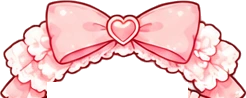
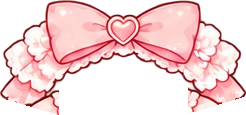
Remove cream flower headband/dress and sky ribbon dress; fix pink heart cuts
Claude-Session: https://claude.ai/code/session_01R3m8MAFkhgnU4D5f6BKp5W

diff --git a/index.html b/index.html
@@ -901,7 +901,7 @@ DISHES.forEach(function(d){ for(var st=1;st<=3;st++){ var x=STAR_X[st];
 var SHOP = [];
 /* 이미지로 만든 아이템: {id,name,slot,tier,cost,file:'assets/items/id.webp',box:[x,y,w,h]} 를 여기에 추가하면
    뽑기·꾸미기·도감에 자동으로 들어가요. box는 캔버스(640x520) 좌표, vb는 box 와 같아요. */
-var IMG_ITEMS = [{"id": "ribbon", "name": "빨간 리본", "slot": "side", "tier": 0, "cost": 8, "file": "assets/items/ribbon.webp", "box": [374.5, 56.1, 125, 71.7]}, {"id": "flower", "name": "꽃 핀", "slot": "side", "tier": 0, "cost": 12, "file": "assets/items/flower.webp", "box": [152.5, 43.1, 105, 97.7]}, {"id": "sprout", "name": "새싹 핀", "slot": "side", "tier": 0, "cost": 8, "file": "assets/items/sprout.webp", "box": [382.0, 53.3, 110, 77.5]}, {"id": "heart", "name": "하트 핀", "slot": "side", "tier": 0, "cost": 10, "file": "assets/items/heart.webp", "box": [383.0, 46.8, 108, 90.4]}, {"id": "star", "name": "별 핀", "slot": "side", "tier": 0, "cost": 10, "file": "assets/items/star.webp", "box": [383.0, 37.5, 108, 108.9]}, {"id": "cloudbow", "name": "구름 무지개 핀", "slot": "side", "tier": 0, "cost": 12, "file": "assets/items/cloudbow.webp", "box": [377.0, 51.8, 120, 80.5]}, {"id": "cherry", "name": "체리 핀", "slot": "side", "tier": 0, "cost": 12, "file": "assets/items/cherry.webp", "box": [387.0, 42.4, 100, 99.2]}, {"id": "glasses", "name": "동그란 안경", "slot": "face", "tier": 1, "cost": 15, "file": "assets/items/glasses.webp", "box": [143.5, 166.3, 355, 147.4]}, {"id": "scarf", "name": "따뜻한 목도리", "slot": "neck", "tier": 1, "cost": 20, "file": "assets/items/scarf.webp", "box": [179.5, 318.9, 285, 178.3]}, {"id": "hat", "name": "파티 모자", "slot": "head", "tier": 1, "cost": 25, "file": "assets/items/hat.webp", "box": [250.0, -80.1, 140, 168.1]}, {"id": "wingpin", "name": "날개 핀", "slot": "side", "tier": 1, "cost": 18, "file": "assets/items/wingpin.webp", "box": [379.5, 46.4, 115, 91.1]}, {"id": "purplebow", "name": "보라 리본 핀", "slot": "side", "tier": 1, "cost": 15, "file": "assets/items/purplebow.webp", "box": [377.0, 50.1, 120, 83.8]}, {"id": "lacebow", "name": "레이스 리본 핀", "slot": "side", "tier": 1, "cost": 18, "file": "assets/items/lacebow.webp", "box": [379.5, 38.0, 115, 108.1]}, {"id": "snow", "name": "눈꽃 핀", "slot": "side", "tier": 1, "cost": 20, "file": "assets/items/snow.webp", "box": [387.0, 48.3, 100, 87.4]}, {"id": "moon", "name": "달별 핀", "slot": "side", "tier": 1, "cost": 22, "file": "assets/items/moon.webp", "box": [382.0, 39.7, 110, 104.6]}, {"id": "crown", "name": "반짝 왕관", "slot": "head", "tier": 2, "cost": 0, "file": "assets/items/crown.webp", "box": [230.0, -37.8, 180, 127.8]}, {"id": "wizard", "name": "별 마법사 모자", "slot": "head", "tier": 2, "cost": 0, "file": "assets/items/wizard.webp", "box": [177.0, -77.3, 290, 189.3]}, {"id": "starwing", "name": "별무지개 날개 머리띠", "slot": "head", "tier": 2, "cost": 0, "file": "assets/items/starwing.webp", "box": [165.0, 28.9, 310, 134.2]}, {"id": "nightcap", "name": "꿀잠 모자", "slot": "head", "tier": 2, "cost": 0, "file": "assets/items/nightcap.webp", "box": [192.0, 9.8, 260, 180.4]}, {"id": "maid", "name": "프릴 리본 머리띠", "slot": "head", "tier": 2, "cost": 0, "file": "assets/items/maid.webp", "box": [190.0, 19.6, 260, 156.9]}, {"id": "angel", "name": "천사 날개 후광", "slot": "head", "tier": 3, "cost": 0, "file": "assets/items/angel.webp", "box": [150.0, 6.4, 340, 177.1]}, {"id": "bat", "name": "박쥐 날개", "slot": "head", "tier": 3, "cost": 0, "file": "assets/items/bat.webp", "box": [165.0, 48.5, 310, 127.1]}, {"id": "wreath", "name": "꽃 화관", "slot": "head", "tier": 3, "cost": 0, "file": "assets/items/wreath.webp", "box": [180.0, 19.0, 280, 162.0]}, {"id": "tiara", "name": "날개 티아라", "slot": "head", "tier": 3, "cost": 0, "file": "assets/items/tiara.webp", "box": [195.0, 18.6, 250, 146.9]}, {"id": "galaxy", "name": "은하수 머리띠", "slot": "head", "tier": 3, "cost": 0, "file": "assets/items/galaxy.webp", "box": [160.0, 23.2, 320, 161.5]}, {"id": "broom", "name": "빗자루", "slot": "hand", "tier": 0, "cost": 14, "file": "assets/items/broom.webp", "box": [401.6, 283, 100.8, 230]}, {"id": "drink", "name": "음료수", "slot": "hand", "tier": 0, "cost": 10, "file": "assets/items/drink.webp", "box": [136.2, 332, 97.6, 162]}, {"id": "schoolbag", "name": "학교가방", "slot": "hand", "tier": 0, "cost": 16, "file": "assets/items/schoolbag.webp", "box": [383.0, 392, 133.0, 140]}, {"id": "slime", "name": "슬라임", "slot": "hand", "tier": 1, "cost": 18, "file": "assets/items/slime.webp", "box": [108.0, 331.1, 154, 116.8]}, {"id": "gameboy", "name": "휴대용 게임기", "slot": "hand", "tier": 1, "cost": 24, "file": "assets/items/gameboy.webp", "box": [222.0, 359.4, 195, 109.1]}, {"id": "bananadoll", "name": "바나나 애착인형", "slot": "hand", "tier": 2, "cost": 0, "file": "assets/items/bananadoll.webp", "box": [48, 342, 130, 149.5]}, {"id": "elephantdoll", "name": "코끼리 애착인형", "slot": "hand", "tier": 2, "cost": 0, "file": "assets/items/elephantdoll.webp", "box": [385.0, 321.0, 160, 148.7]}, {"id": "tshirt", "name": "줄무늬 티셔츠", "slot": "outfit", "tier": 0, "cost": 14, "file": "assets/items/tshirt.webp", "box": [200.0, 328, 240, 131.0]}, {"id": "overalls", "name": "멜빵바지", "slot": "outfit", "tier": 0, "cost": 16, "file": "assets/items/overalls.webp", "box": [200.0, 328, 240, 177.4]}, {"id": "dress", "name": "분홍 원피스", "slot": "outfit", "tier": 1, "cost": 26, "file": "assets/items/dress.webp", "box": [200.0, 328, 240, 131.7]}, {"id": "hanbok", "name": "한복", "slot": "outfit", "tier": 1, "cost": 30, "file": "assets/items/hanbok.webp", "box": [200.0, 328, 240, 139.9]}, {"id": "uniform", "name": "세일러 교복", "slot": "outfit", "tier": 1, "cost": 28, "file": "assets/items/uniform.webp", "box": [200.0, 328, 240, 146.9]}, {"id": "cape", "name": "별빛 마법 망토", "slot": "outfit", "tier": 2, "cost": 0, "file": "assets/items/cape.webp", "box": [200.0, 365, 240, 138.0]}, {"id": "princess", "name": "공주 드레스", "slot": "outfit", "tier": 2, "cost": 0, "file": "assets/items/princess.webp", "box": [200.0, 328, 240, 157.7]}, {"id": "spacesuit", "name": "우주복", "slot": "outfit", "tier": 3, "cost": 0, "file": "assets/items/spacesuit.webp", "box": [200.0, 328, 240, 121.6]}, {"id": "heartphones", "name": "하트 헤드폰", "slot": "head", "tier": 1, "cost": 22, "file": "assets/items/heartphones.webp", "box": [82, -12, 476, 273.0]}, {"id": "nursehat", "name": "간호사 모자", "slot": "head", "tier": 0, "cost": 14, "file": "assets/items/nursehat.webp", "box": [215, 14, 210, 102.6]}, {"id": "nursedress", "name": "간호사복", "slot": "outfit", "tier": 1, "cost": 28, "file": "assets/items/nursedress.webp", "box": [180.0, 318, 280, 206.6]}, {"id": "pancake", "name": "팬케이크", "slot": "hand", "tier": 1, "cost": 18, "file": "assets/items/pancake.webp", "box": [110, 335, 150, 121.7]}, {"id": "chocochip", "name": "초코칩", "slot": "hand", "tier": 0, "cost": 12, "file": "assets/items/chocochip.webp", "box": [130, 340, 100, 101.5]}, {"id": "elephantwings", "name": "코끼리 날개", "slot": "back", "tier": 1, "cost": 32, "file": "assets/items/elephantwings.webp", "box": [-30.0, 205, 700, 321.4]}, {"id": "angelwings", "name": "천사 날개", "slot": "back", "tier": 1, "cost": 34, "file": "assets/items/angelwings.webp", "box": [-30.0, 205, 700, 269.5]}, {"id": "demonwings", "name": "악마 날개", "slot": "back", "tier": 1, "cost": 34, "file": "assets/items/demonwings.webp", "box": [-30.0, 205, 700, 300.2]}, {"id": "rainbowwings", "name": "무지개 날개", "slot": "back", "tier": 2, "cost": 0, "file": "assets/items/rainbowwings.webp", "box": [-30.0, 205, 700, 312.6]}, {"id": "butterflywings", "name": "나비 날개", "slot": "back", "tier": 0, "cost": 24, "file": "assets/items/butterflywings.webp", "box": [-30.0, 205, 700, 313.3]}, {"id": "fairywings", "name": "요정 날개", "slot": "back", "tier": 1, "cost": 30, "file": "assets/items/fairywings.webp", "box": [-30.0, 205, 700, 358.8]}, {"id": "crystalwings", "name": "크리스탈 날개", "slot": "back", "tier": 2, "cost": 0, "file": "assets/items/crystalwings.webp", "box": [-30.0, 205, 700, 354.4]}, {"id": "starwings", "name": "별빛 날개", "slot": "back", "tier": 2, "cost": 0, "file": "assets/items/starwings.webp", "box": [-30.0, 205, 700, 348.6]}, {"id": "naturewings", "name": "자연 날개", "slot": "back", "tier": 1, "cost": 30, "file": "assets/items/naturewings.webp", "box": [-30.0, 205, 700, 350.8]}, {"id": "nheart", "name": "하트 멜빵 반바지", "slot": "outfit", "tier": 0, "cost": 16, "file": "assets/items/nheart.webp", "box": [180.0, 318, 280, 210.6]}, {"id": "nribbon", "name": "분홍 리본 원피스", "slot": "outfit", "tier": 1, "cost": 26, "file": "assets/items/nribbon.webp", "box": [180.0, 318, 280, 192.7]}, {"id": "ndaisy", "name": "노랑 데이지 원피스", "slot": "outfit", "tier": 1, "cost": 28, "file": "assets/items/ndaisy.webp", "box": [180.0, 318, 280, 200.4]}, {"id": "nstrawb", "name": "딸기 레이스 원피스", "slot": "outfit", "tier": 1, "cost": 28, "file": "assets/items/nstrawb.webp", "box": [180.0, 318, 280, 188.6]}, {"id": "nsailor", "name": "곰돌이 세일러복", "slot": "outfit", "tier": 0, "cost": 18, "file": "assets/items/nsailor.webp", "box": [180.0, 318, 280, 205.2]}, {"id": "nbeartan", "name": "갈색 리본 곰돌이옷", "slot": "outfit", "tier": 1, "cost": 26, "file": "assets/items/nbeartan.webp", "box": [180.0, 318, 280, 209.0]}, {"id": "nrose", "name": "장미 꽃무늬 원피스", "slot": "outfit", "tier": 1, "cost": 26, "file": "assets/items/nrose.webp", "box": [180.0, 318, 280, 195.0]}, {"id": "nbearblue", "name": "곰돌이 파랑 멜빵", "slot": "outfit", "tier": 0, "cost": 18, "file": "assets/items/nbearblue.webp", "box": [180.0, 318, 280, 209.6]}, {"id": "nstar", "name": "별빛 망토", "slot": "outfit", "tier": 2, "cost": 0, "file": "assets/items/nstar.webp", "box": [180.0, 318, 280, 204.7]}, {"id": "nsnow", "name": "눈꽃 망토", "slot": "outfit", "tier": 2, "cost": 0, "file": "assets/items/nsnow.webp", "box": [180.0, 318, 280, 193.8]}, {"id": "nprince", "name": "왕자님 정복", "slot": "outfit", "tier": 2, "cost": 0, "file": "assets/items/nprince.webp", "box": [180.0, 318, 280, 211.5]}, {"id": "nbat", "name": "박쥐 망토", "slot": "outfit", "tier": 3, "cost": 0, "file": "assets/items/nbat.webp", "box": [180.0, 318, 280, 207.8]}, {"id": "mpink", "name": "핑크 하트 멜빵", "slot": "outfit", "tier": 0, "cost": 16, "file": "assets/items/mpink.webp", "box": [180.0, 318, 280, 226.8]}, {"id": "myellow", "name": "노랑 데이지 리본 원피스", "slot": "outfit", "tier": 1, "cost": 26, "file": "assets/items/myellow.webp", "box": [180.0, 318, 280, 197.4]}, {"id": "manchor", "name": "닻 세일러 원피스", "slot": "outfit", "tier": 0, "cost": 18, "file": "assets/items/manchor.webp", "box": [180.0, 318, 280, 206.7]}, {"id": "mstrawchk", "name": "딸기 체크 원피스", "slot": "outfit", "tier": 1, "cost": 28, "file": "assets/items/mstrawchk.webp", "box": [180.0, 318, 280, 196.1]}, {"id": "mdenim", "name": "별 청멜빵 반바지", "slot": "outfit", "tier": 0, "cost": 16, "file": "assets/items/mdenim.webp", "box": [180.0, 318, 280, 213.6]}, {"id": "mlavender", "name": "라벤더 프릴 원피스", "slot": "outfit", "tier": 1, "cost": 28, "file": "assets/items/mlavender.webp", "box": [180.0, 318, 280, 197.1]}, {"id": "mbearcream", "name": "곰돌이 크림 멜빵", "slot": "outfit", "tier": 1, "cost": 26, "file": "assets/items/mbearcream.webp", "box": [180.0, 318, 280, 215.8]}, {"id": "mmint", "name": "민트 클로버 원피스", "slot": "outfit", "tier": 1, "cost": 26, "file": "assets/items/mmint.webp", "box": [180.0, 318, 280, 202.9]}, {"id": "mcloud", "name": "구름 리본 원피스", "slot": "outfit", "tier": 1, "cost": 26, "file": "assets/items/mcloud.webp", "box": [180.0, 318, 280, 205.4]}, {"id": "mbee", "name": "꿀벌 멜빵", "slot": "outfit", "tier": 2, "cost": 0, "file": "assets/items/mbee.webp", "box": [180.0, 318, 280, 232.5]}, {"id": "mpearl", "name": "진주 하트 원피스", "slot": "outfit", "tier": 2, "cost": 0, "file": "assets/items/mpearl.webp", "box": [160.0, 318, 280, 214.0]}, {"id": "mnavy", "name": "달별 네이비 정복", "slot": "outfit", "tier": 3, "cost": 0, "file": "assets/items/mnavy.webp", "box": [180.0, 318, 280, 211.5]}, {"id": "psakura", "name": "벚꽃 원피스", "slot": "outfit", "tier": 1, "cost": 26, "file": "assets/items/psakura.webp", "box": [180.0, 328, 280, 217.5]}, {"id": "palice", "name": "앨리스 원피스", "slot": "outfit", "tier": 2, "cost": 0, "file": "assets/items/palice.webp", "box": [180.0, 328, 280, 222.2]}, {"id": "ppicnic", "name": "체크 피크닉 원피스", "slot": "outfit", "tier": 1, "cost": 28, "file": "assets/items/ppicnic.webp", "box": [180.0, 328, 280, 222.3]}, {"id": "pballet", "name": "발레코어 원피스", "slot": "outfit", "tier": 1, "cost": 28, "file": "assets/items/pballet.webp", "box": [180.0, 328, 280, 206.8]}, {"id": "pangel", "name": "천사 원피스", "slot": "outfit", "tier": 2, "cost": 0, "file": "assets/items/pangel.webp", "box": [160.0, 328, 280, 206.5]}, {"id": "pwedding", "name": "웨딩 드레스", "slot": "outfit", "tier": 3, "cost": 0, "file": "assets/items/pwedding.webp", "box": [180.0, 328, 280, 213.9]}, {"id": "pbee", "name": "꿀벌 원피스", "slot": "outfit", "tier": 1, "cost": 26, "file": "assets/items/pbee.webp", "box": [180.0, 328, 280, 236.0]}, {"id": "pfrog", "name": "개구리 멜빵", "slot": "outfit", "tier": 0, "cost": 18, "file": "assets/items/pfrog.webp", "box": [180.0, 328, 280, 214.2]}, {"id": "pcherry", "name": "체리 원피스", "slot": "outfit", "tier": 1, "cost": 28, "file": "assets/items/pcherry.webp", "box": [180.0, 328, 280, 228.3]}, {"id": "pcloudstar", "name": "구름별 원피스", "slot": "outfit", "tier": 2, "cost": 0, "file": "assets/items/pcloudstar.webp", "box": [180.0, 328, 280, 234.1]}, {"id": "pgoth", "name": "고딕 로리타", "slot": "outfit", "tier": 2, "cost": 0, "file": "assets/items/pgoth.webp", "box": [180.0, 328, 280, 230.8]}, {"id": "pxmas", "name": "크리스마스 원피스", "slot": "outfit", "tier": 3, "cost": 0, "file": "assets/items/pxmas.webp", "box": [180.0, 328, 280, 219.7]}, {"id": "kblackdress", "name": "검정 칼라 원피스", "slot": "outfit", "tier": 1, "cost": 26, "file": "assets/items/kblackdress.webp", "box": [160.0, 318, 280, 160.0]}, {"id": "kplaid", "name": "회색 체크 원피스", "slot": "outfit", "tier": 1, "cost": 28, "file": "assets/items/kplaid.webp", "box": [160.0, 318, 280, 171.7]}, {"id": "kapple", "name": "사과 빨강 원피스", "slot": "outfit", "tier": 1, "cost": 28, "file": "assets/items/kapple.webp", "box": [160.0, 318, 280, 173.8]}, {"id": "kwhite", "name": "흰 레이스 원피스", "slot": "outfit", "tier": 1, "cost": 26, "file": "assets/items/kwhite.webp", "box": [160.0, 318, 280, 177.1]}, {"id": "kgreen", "name": "그린 멜빵 원피스", "slot": "outfit", "tier": 1, "cost": 26, "file": "assets/items/kgreen.webp", "box": [160.0, 318, 280, 178.8]}, {"id": "kberet", "name": "빨간 베레모", "slot": "head", "tier": 1, "cost": 24, "file": "assets/items/kberet.webp", "box": [215, 8, 180, 103.0]}, {"id": "kblackbow", "name": "검정 리본", "slot": "head", "tier": 0, "cost": 12, "file": "assets/items/kblackbow.webp", "box": [335, 18, 95, 68.1]}, {"id": "kwhitebow", "name": "흰 리본", "slot": "head", "tier": 0, "cost": 12, "file": "assets/items/kwhitebow.webp", "box": [335, 18, 95, 68.1]}, {"id": "kpolice", "name": "경찰복", "slot": "outfit", "tier": 1, "cost": 28, "file": "assets/items/kpolice.webp", "box": [160.0, 318, 280, 211.4]}, {"id": "kpolicehat", "name": "경찰모", "slot": "head", "tier": 1, "cost": 26, "file": "assets/items/kpolicehat.webp", "box": [240.0, 19.6, 160, 95.4]}, {"id": "hnapple", "name": "빨간 사과 베레모", "slot": "head", "tier": 1, "cost": 22, "file": "assets/items/hnapple.webp", "box": [195.0, 30, 250, 128.4]}, {"id": "hngreen", "name": "초록 리본 머리띠", "slot": "head", "tier": 1, "cost": 24, "file": "assets/items/hngreen.webp", "box": [195.0, 30, 250, 106.6]}, {"id": "hncream", "name": "크림 꽃 머리띠", "slot": "head", "tier": 1, "cost": 24, "file": "assets/items/hncream.webp", "box": [195.0, 30, 250, 125.8]}, {"id": "hnhood", "name": "검정 레이스 후드", "slot": "head", "tier": 2, "cost": 0, "file": "assets/items/hnhood.webp", "box": [195.0, 30, 250, 131.9]}, {"id": "hnhanbok", "name": "하늘 꽃 리본", "slot": "head", "tier": 2, "cost": 0, "file": "assets/items/hnhanbok.webp", "box": [195.0, 30, 250, 132.7]}, {"id": "hnheart", "name": "분홍 하트 리본 띠", "slot": "head", "tier": 1, "cost": 24, "file": "assets/items/hnheart.webp", "box": [195.0, 30, 250, 99.6]}, {"id": "hnrose", "name": "파란 장미 꽃 머리띠", "slot": "head", "tier": 2, "cost": 0, "file": "assets/items/hnrose.webp", "box": [195.0, 30, 250, 110.5]}, {"id": "hnsky", "name": "하늘 큰 리본 핀", "slot": "head", "tier": 1, "cost": 22, "file": "assets/items/hnsky.webp", "box": [195.0, 30, 250, 121.8]}, {"id": "hnbear", "name": "곰돌이 갈색 머리띠", "slot": "head", "tier": 1, "cost": 24, "file": "assets/items/hnbear.webp", "box": [195.0, 30, 250, 121.4]}, {"id": "hnclown", "name": "별 광대 베레", "slot": "head", "tier": 1, "cost": 22, "file": "assets/items/hnclown.webp", "box": [195.0, 30, 250, 123.4]}, {"id": "hnnurse", "name": "간호사 모자", "slot": "head", "tier": 1, "cost": 24, "file": "assets/items/hnnurse.webp", "box": [195.0, 30, 250, 107.8]}, {"id": "qnapple", "name": "사과 멜빵 반바지", "slot": "outfit", "tier": 1, "cost": 26, "file": "assets/items/qnapple.webp", "box": [176.2, 318, 287.5, 230.0]}, {"id": "qngreen", "name": "초록 코르셋 원피스", "slot": "outfit", "tier": 1, "cost": 28, "file": "assets/items/qngreen.webp", "box": [173.3, 318, 293.3, 230.0]}, {"id": "qncream", "name": "크림 꽃 원피스", "slot": "outfit", "tier": 1, "cost": 28, "file": "assets/items/qncream.webp", "box": [174.6, 318, 290.8, 230.0]}, {"id": "qnhood", "name": "보라 하트 고딕 원피스", "slot": "outfit", "tier": 2, "cost": 0, "file": "assets/items/qnhood.webp", "box": [170.0, 318, 300, 222.8]}, {"id": "qnhanbok", "name": "하늘 한복", "slot": "outfit", "tier": 2, "cost": 0, "file": "assets/items/qnhanbok.webp", "box": [173.1, 318, 293.8, 230.0]}, {"id": "qnleather", "name": "검정 가죽 재킷", "slot": "outfit", "tier": 2, "cost": 0, "file": "assets/items/qnleather.webp", "box": [181.6, 318, 276.9, 230.0]}, {"id": "qnpurple", "name": "검정 보라 하트 원피스", "slot": "outfit", "tier": 1, "cost": 28, "file": "assets/items/qnpurple.webp", "box": [171.6, 318, 296.8, 230.0]}, {"id": "qnplaid", "name": "체크 곰돌이 원피스", "slot": "outfit", "tier": 1, "cost": 26, "file": "assets/items/qnplaid.webp", "box": [174.1, 318, 291.9, 230.0]}, {"id": "qnheart", "name": "분홍 하트 원피스", "slot": "outfit", "tier": 1, "cost": 28, "file": "assets/items/qnheart.webp", "box": [170.0, 318, 300, 203.0]}, {"id": "qnrose", "name": "파란 장미 레이스 원피스", "slot": "outfit", "tier": 2, "cost": 0, "file": "assets/items/qnrose.webp", "box": [170.0, 318, 300, 214.6]}, {"id": "qnsky", "name": "하늘 리본 레이스 원피스", "slot": "outfit", "tier": 1, "cost": 28, "file": "assets/items/qnsky.webp", "box": [175.6, 318, 288.9, 230.0]}, {"id": "qnbear", "name": "곰돌이 크림 메이드", "slot": "outfit", "tier": 1, "cost": 26, "file": "assets/items/qnbear.webp", "box": [176.9, 318, 286.1, 230.0]}, {"id": "qnclown", "name": "빨강 파랑 광대 멜빵", "slot": "outfit", "tier": 1, "cost": 26, "file": "assets/items/qnclown.webp", "box": [184.6, 318, 270.8, 230.0]}, {"id": "qnnurse", "name": "간호사 원피스", "slot": "outfit", "tier": 1, "cost": 28, "file": "assets/items/qnnurse.webp", "box": [170.0, 318, 300, 221.4]}];
+var IMG_ITEMS = [{"id": "ribbon", "name": "빨간 리본", "slot": "side", "tier": 0, "cost": 8, "file": "assets/items/ribbon.webp", "box": [374.5, 56.1, 125, 71.7]}, {"id": "flower", "name": "꽃 핀", "slot": "side", "tier": 0, "cost": 12, "file": "assets/items/flower.webp", "box": [152.5, 43.1, 105, 97.7]}, {"id": "sprout", "name": "새싹 핀", "slot": "side", "tier": 0, "cost": 8, "file": "assets/items/sprout.webp", "box": [382.0, 53.3, 110, 77.5]}, {"id": "heart", "name": "하트 핀", "slot": "side", "tier": 0, "cost": 10, "file": "assets/items/heart.webp", "box": [383.0, 46.8, 108, 90.4]}, {"id": "star", "name": "별 핀", "slot": "side", "tier": 0, "cost": 10, "file": "assets/items/star.webp", "box": [383.0, 37.5, 108, 108.9]}, {"id": "cloudbow", "name": "구름 무지개 핀", "slot": "side", "tier": 0, "cost": 12, "file": "assets/items/cloudbow.webp", "box": [377.0, 51.8, 120, 80.5]}, {"id": "cherry", "name": "체리 핀", "slot": "side", "tier": 0, "cost": 12, "file": "assets/items/cherry.webp", "box": [387.0, 42.4, 100, 99.2]}, {"id": "glasses", "name": "동그란 안경", "slot": "face", "tier": 1, "cost": 15, "file": "assets/items/glasses.webp", "box": [143.5, 166.3, 355, 147.4]}, {"id": "scarf", "name": "따뜻한 목도리", "slot": "neck", "tier": 1, "cost": 20, "file": "assets/items/scarf.webp", "box": [179.5, 318.9, 285, 178.3]}, {"id": "hat", "name": "파티 모자", "slot": "head", "tier": 1, "cost": 25, "file": "assets/items/hat.webp", "box": [250.0, -80.1, 140, 168.1]}, {"id": "wingpin", "name": "날개 핀", "slot": "side", "tier": 1, "cost": 18, "file": "assets/items/wingpin.webp", "box": [379.5, 46.4, 115, 91.1]}, {"id": "purplebow", "name": "보라 리본 핀", "slot": "side", "tier": 1, "cost": 15, "file": "assets/items/purplebow.webp", "box": [377.0, 50.1, 120, 83.8]}, {"id": "lacebow", "name": "레이스 리본 핀", "slot": "side", "tier": 1, "cost": 18, "file": "assets/items/lacebow.webp", "box": [379.5, 38.0, 115, 108.1]}, {"id": "snow", "name": "눈꽃 핀", "slot": "side", "tier": 1, "cost": 20, "file": "assets/items/snow.webp", "box": [387.0, 48.3, 100, 87.4]}, {"id": "moon", "name": "달별 핀", "slot": "side", "tier": 1, "cost": 22, "file": "assets/items/moon.webp", "box": [382.0, 39.7, 110, 104.6]}, {"id": "crown", "name": "반짝 왕관", "slot": "head", "tier": 2, "cost": 0, "file": "assets/items/crown.webp", "box": [230.0, -37.8, 180, 127.8]}, {"id": "wizard", "name": "별 마법사 모자", "slot": "head", "tier": 2, "cost": 0, "file": "assets/items/wizard.webp", "box": [177.0, -77.3, 290, 189.3]}, {"id": "starwing", "name": "별무지개 날개 머리띠", "slot": "head", "tier": 2, "cost": 0, "file": "assets/items/starwing.webp", "box": [165.0, 28.9, 310, 134.2]}, {"id": "nightcap", "name": "꿀잠 모자", "slot": "head", "tier": 2, "cost": 0, "file": "assets/items/nightcap.webp", "box": [192.0, 9.8, 260, 180.4]}, {"id": "maid", "name": "프릴 리본 머리띠", "slot": "head", "tier": 2, "cost": 0, "file": "assets/items/maid.webp", "box": [190.0, 19.6, 260, 156.9]}, {"id": "angel", "name": "천사 날개 후광", "slot": "head", "tier": 3, "cost": 0, "file": "assets/items/angel.webp", "box": [150.0, 6.4, 340, 177.1]}, {"id": "bat", "name": "박쥐 날개", "slot": "head", "tier": 3, "cost": 0, "file": "assets/items/bat.webp", "box": [165.0, 48.5, 310, 127.1]}, {"id": "wreath", "name": "꽃 화관", "slot": "head", "tier": 3, "cost": 0, "file": "assets/items/wreath.webp", "box": [180.0, 19.0, 280, 162.0]}, {"id": "tiara", "name": "날개 티아라", "slot": "head", "tier": 3, "cost": 0, "file": "assets/items/tiara.webp", "box": [195.0, 18.6, 250, 146.9]}, {"id": "galaxy", "name": "은하수 머리띠", "slot": "head", "tier": 3, "cost": 0, "file": "assets/items/galaxy.webp", "box": [160.0, 23.2, 320, 161.5]}, {"id": "broom", "name": "빗자루", "slot": "hand", "tier": 0, "cost": 14, "file": "assets/items/broom.webp", "box": [401.6, 283, 100.8, 230]}, {"id": "drink", "name": "음료수", "slot": "hand", "tier": 0, "cost": 10, "file": "assets/items/drink.webp", "box": [136.2, 332, 97.6, 162]}, {"id": "schoolbag", "name": "학교가방", "slot": "hand", "tier": 0, "cost": 16, "file": "assets/items/schoolbag.webp", "box": [383.0, 392, 133.0, 140]}, {"id": "slime", "name": "슬라임", "slot": "hand", "tier": 1, "cost": 18, "file": "assets/items/slime.webp", "box": [108.0, 331.1, 154, 116.8]}, {"id": "gameboy", "name": "휴대용 게임기", "slot": "hand", "tier": 1, "cost": 24, "file": "assets/items/gameboy.webp", "box": [222.0, 359.4, 195, 109.1]}, {"id": "bananadoll", "name": "바나나 애착인형", "slot": "hand", "tier": 2, "cost": 0, "file": "assets/items/bananadoll.webp", "box": [48, 342, 130, 149.5]}, {"id": "elephantdoll", "name": "코끼리 애착인형", "slot": "hand", "tier": 2, "cost": 0, "file": "assets/items/elephantdoll.webp", "box": [385.0, 321.0, 160, 148.7]}, {"id": "tshirt", "name": "줄무늬 티셔츠", "slot": "outfit", "tier": 0, "cost": 14, "file": "assets/items/tshirt.webp", "box": [200.0, 328, 240, 131.0]}, {"id": "overalls", "name": "멜빵바지", "slot": "outfit", "tier": 0, "cost": 16, "file": "assets/items/overalls.webp", "box": [200.0, 328, 240, 177.4]}, {"id": "dress", "name": "분홍 원피스", "slot": "outfit", "tier": 1, "cost": 26, "file": "assets/items/dress.webp", "box": [200.0, 328, 240, 131.7]}, {"id": "hanbok", "name": "한복", "slot": "outfit", "tier": 1, "cost": 30, "file": "assets/items/hanbok.webp", "box": [200.0, 328, 240, 139.9]}, {"id": "uniform", "name": "세일러 교복", "slot": "outfit", "tier": 1, "cost": 28, "file": "assets/items/uniform.webp", "box": [200.0, 328, 240, 146.9]}, {"id": "cape", "name": "별빛 마법 망토", "slot": "outfit", "tier": 2, "cost": 0, "file": "assets/items/cape.webp", "box": [200.0, 365, 240, 138.0]}, {"id": "princess", "name": "공주 드레스", "slot": "outfit", "tier": 2, "cost": 0, "file": "assets/items/princess.webp", "box": [200.0, 328, 240, 157.7]}, {"id": "spacesuit", "name": "우주복", "slot": "outfit", "tier": 3, "cost": 0, "file": "assets/items/spacesuit.webp", "box": [200.0, 328, 240, 121.6]}, {"id": "heartphones", "name": "하트 헤드폰", "slot": "head", "tier": 1, "cost": 22, "file": "assets/items/heartphones.webp", "box": [82, -12, 476, 273.0]}, {"id": "nursehat", "name": "간호사 모자", "slot": "head", "tier": 0, "cost": 14, "file": "assets/items/nursehat.webp", "box": [215, 14, 210, 102.6]}, {"id": "nursedress", "name": "간호사복", "slot": "outfit", "tier": 1, "cost": 28, "file": "assets/items/nursedress.webp", "box": [180.0, 318, 280, 206.6]}, {"id": "pancake", "name": "팬케이크", "slot": "hand", "tier": 1, "cost": 18, "file": "assets/items/pancake.webp", "box": [110, 335, 150, 121.7]}, {"id": "chocochip", "name": "초코칩", "slot": "hand", "tier": 0, "cost": 12, "file": "assets/items/chocochip.webp", "box": [130, 340, 100, 101.5]}, {"id": "elephantwings", "name": "코끼리 날개", "slot": "back", "tier": 1, "cost": 32, "file": "assets/items/elephantwings.webp", "box": [-30.0, 205, 700, 321.4]}, {"id": "angelwings", "name": "천사 날개", "slot": "back", "tier": 1, "cost": 34, "file": "assets/items/angelwings.webp", "box": [-30.0, 205, 700, 269.5]}, {"id": "demonwings", "name": "악마 날개", "slot": "back", "tier": 1, "cost": 34, "file": "assets/items/demonwings.webp", "box": [-30.0, 205, 700, 300.2]}, {"id": "rainbowwings", "name": "무지개 날개", "slot": "back", "tier": 2, "cost": 0, "file": "assets/items/rainbowwings.webp", "box": [-30.0, 205, 700, 312.6]}, {"id": "butterflywings", "name": "나비 날개", "slot": "back", "tier": 0, "cost": 24, "file": "assets/items/butterflywings.webp", "box": [-30.0, 205, 700, 313.3]}, {"id": "fairywings", "name": "요정 날개", "slot": "back", "tier": 1, "cost": 30, "file": "assets/items/fairywings.webp", "box": [-30.0, 205, 700, 358.8]}, {"id": "crystalwings", "name": "크리스탈 날개", "slot": "back", "tier": 2, "cost": 0, "file": "assets/items/crystalwings.webp", "box": [-30.0, 205, 700, 354.4]}, {"id": "starwings", "name": "별빛 날개", "slot": "back", "tier": 2, "cost": 0, "file": "assets/items/starwings.webp", "box": [-30.0, 205, 700, 348.6]}, {"id": "naturewings", "name": "자연 날개", "slot": "back", "tier": 1, "cost": 30, "file": "assets/items/naturewings.webp", "box": [-30.0, 205, 700, 350.8]}, {"id": "nheart", "name": "하트 멜빵 반바지", "slot": "outfit", "tier": 0, "cost": 16, "file": "assets/items/nheart.webp", "box": [180.0, 318, 280, 210.6]}, {"id": "nribbon", "name": "분홍 리본 원피스", "slot": "outfit", "tier": 1, "cost": 26, "file": "assets/items/nribbon.webp", "box": [180.0, 318, 280, 192.7]}, {"id": "ndaisy", "name": "노랑 데이지 원피스", "slot": "outfit", "tier": 1, "cost": 28, "file": "assets/items/ndaisy.webp", "box": [180.0, 318, 280, 200.4]}, {"id": "nstrawb", "name": "딸기 레이스 원피스", "slot": "outfit", "tier": 1, "cost": 28, "file": "assets/items/nstrawb.webp", "box": [180.0, 318, 280, 188.6]}, {"id": "nsailor", "name": "곰돌이 세일러복", "slot": "outfit", "tier": 0, "cost": 18, "file": "assets/items/nsailor.webp", "box": [180.0, 318, 280, 205.2]}, {"id": "nbeartan", "name": "갈색 리본 곰돌이옷", "slot": "outfit", "tier": 1, "cost": 26, "file": "assets/items/nbeartan.webp", "box": [180.0, 318, 280, 209.0]}, {"id": "nrose", "name": "장미 꽃무늬 원피스", "slot": "outfit", "tier": 1, "cost": 26, "file": "assets/items/nrose.webp", "box": [180.0, 318, 280, 195.0]}, {"id": "nbearblue", "name": "곰돌이 파랑 멜빵", "slot": "outfit", "tier": 0, "cost": 18, "file": "assets/items/nbearblue.webp", "box": [180.0, 318, 280, 209.6]}, {"id": "nstar", "name": "별빛 망토", "slot": "outfit", "tier": 2, "cost": 0, "file": "assets/items/nstar.webp", "box": [180.0, 318, 280, 204.7]}, {"id": "nsnow", "name": "눈꽃 망토", "slot": "outfit", "tier": 2, "cost": 0, "file": "assets/items/nsnow.webp", "box": [180.0, 318, 280, 193.8]}, {"id": "nprince", "name": "왕자님 정복", "slot": "outfit", "tier": 2, "cost": 0, "file": "assets/items/nprince.webp", "box": [180.0, 318, 280, 211.5]}, {"id": "nbat", "name": "박쥐 망토", "slot": "outfit", "tier": 3, "cost": 0, "file": "assets/items/nbat.webp", "box": [180.0, 318, 280, 207.8]}, {"id": "mpink", "name": "핑크 하트 멜빵", "slot": "outfit", "tier": 0, "cost": 16, "file": "assets/items/mpink.webp", "box": [180.0, 318, 280, 226.8]}, {"id": "myellow", "name": "노랑 데이지 리본 원피스", "slot": "outfit", "tier": 1, "cost": 26, "file": "assets/items/myellow.webp", "box": [180.0, 318, 280, 197.4]}, {"id": "manchor", "name": "닻 세일러 원피스", "slot": "outfit", "tier": 0, "cost": 18, "file": "assets/items/manchor.webp", "box": [180.0, 318, 280, 206.7]}, {"id": "mstrawchk", "name": "딸기 체크 원피스", "slot": "outfit", "tier": 1, "cost": 28, "file": "assets/items/mstrawchk.webp", "box": [180.0, 318, 280, 196.1]}, {"id": "mdenim", "name": "별 청멜빵 반바지", "slot": "outfit", "tier": 0, "cost": 16, "file": "assets/items/mdenim.webp", "box": [180.0, 318, 280, 213.6]}, {"id": "mlavender", "name": "라벤더 프릴 원피스", "slot": "outfit", "tier": 1, "cost": 28, "file": "assets/items/mlavender.webp", "box": [180.0, 318, 280, 197.1]}, {"id": "mbearcream", "name": "곰돌이 크림 멜빵", "slot": "outfit", "tier": 1, "cost": 26, "file": "assets/items/mbearcream.webp", "box": [180.0, 318, 280, 215.8]}, {"id": "mmint", "name": "민트 클로버 원피스", "slot": "outfit", "tier": 1, "cost": 26, "file": "assets/items/mmint.webp", "box": [180.0, 318, 280, 202.9]}, {"id": "mcloud", "name": "구름 리본 원피스", "slot": "outfit", "tier": 1, "cost": 26, "file": "assets/items/mcloud.webp", "box": [180.0, 318, 280, 205.4]}, {"id": "mbee", "name": "꿀벌 멜빵", "slot": "outfit", "tier": 2, "cost": 0, "file": "assets/items/mbee.webp", "box": [180.0, 318, 280, 232.5]}, {"id": "mpearl", "name": "진주 하트 원피스", "slot": "outfit", "tier": 2, "cost": 0, "file": "assets/items/mpearl.webp", "box": [160.0, 318, 280, 214.0]}, {"id": "mnavy", "name": "달별 네이비 정복", "slot": "outfit", "tier": 3, "cost": 0, "file": "assets/items/mnavy.webp", "box": [180.0, 318, 280, 211.5]}, {"id": "psakura", "name": "벚꽃 원피스", "slot": "outfit", "tier": 1, "cost": 26, "file": "assets/items/psakura.webp", "box": [180.0, 328, 280, 217.5]}, {"id": "palice", "name": "앨리스 원피스", "slot": "outfit", "tier": 2, "cost": 0, "file": "assets/items/palice.webp", "box": [180.0, 328, 280, 222.2]}, {"id": "ppicnic", "name": "체크 피크닉 원피스", "slot": "outfit", "tier": 1, "cost": 28, "file": "assets/items/ppicnic.webp", "box": [180.0, 328, 280, 222.3]}, {"id": "pballet", "name": "발레코어 원피스", "slot": "outfit", "tier": 1, "cost": 28, "file": "assets/items/pballet.webp", "box": [180.0, 328, 280, 206.8]}, {"id": "pangel", "name": "천사 원피스", "slot": "outfit", "tier": 2, "cost": 0, "file": "assets/items/pangel.webp", "box": [160.0, 328, 280, 206.5]}, {"id": "pwedding", "name": "웨딩 드레스", "slot": "outfit", "tier": 3, "cost": 0, "file": "assets/items/pwedding.webp", "box": [180.0, 328, 280, 213.9]}, {"id": "pbee", "name": "꿀벌 원피스", "slot": "outfit", "tier": 1, "cost": 26, "file": "assets/items/pbee.webp", "box": [180.0, 328, 280, 236.0]}, {"id": "pfrog", "name": "개구리 멜빵", "slot": "outfit", "tier": 0, "cost": 18, "file": "assets/items/pfrog.webp", "box": [180.0, 328, 280, 214.2]}, {"id": "pcherry", "name": "체리 원피스", "slot": "outfit", "tier": 1, "cost": 28, "file": "assets/items/pcherry.webp", "box": [180.0, 328, 280, 228.3]}, {"id": "pcloudstar", "name": "구름별 원피스", "slot": "outfit", "tier": 2, "cost": 0, "file": "assets/items/pcloudstar.webp", "box": [180.0, 328, 280, 234.1]}, {"id": "pgoth", "name": "고딕 로리타", "slot": "outfit", "tier": 2, "cost": 0, "file": "assets/items/pgoth.webp", "box": [180.0, 328, 280, 230.8]}, {"id": "pxmas", "name": "크리스마스 원피스", "slot": "outfit", "tier": 3, "cost": 0, "file": "assets/items/pxmas.webp", "box": [180.0, 328, 280, 219.7]}, {"id": "kblackdress", "name": "검정 칼라 원피스", "slot": "outfit", "tier": 1, "cost": 26, "file": "assets/items/kblackdress.webp", "box": [160.0, 318, 280, 160.0]}, {"id": "kplaid", "name": "회색 체크 원피스", "slot": "outfit", "tier": 1, "cost": 28, "file": "assets/items/kplaid.webp", "box": [160.0, 318, 280, 171.7]}, {"id": "kapple", "name": "사과 빨강 원피스", "slot": "outfit", "tier": 1, "cost": 28, "file": "assets/items/kapple.webp", "box": [160.0, 318, 280, 173.8]}, {"id": "kwhite", "name": "흰 레이스 원피스", "slot": "outfit", "tier": 1, "cost": 26, "file": "assets/items/kwhite.webp", "box": [160.0, 318, 280, 177.1]}, {"id": "kgreen", "name": "그린 멜빵 원피스", "slot": "outfit", "tier": 1, "cost": 26, "file": "assets/items/kgreen.webp", "box": [160.0, 318, 280, 178.8]}, {"id": "kberet", "name": "빨간 베레모", "slot": "head", "tier": 1, "cost": 24, "file": "assets/items/kberet.webp", "box": [215, 8, 180, 103.0]}, {"id": "kblackbow", "name": "검정 리본", "slot": "head", "tier": 0, "cost": 12, "file": "assets/items/kblackbow.webp", "box": [335, 18, 95, 68.1]}, {"id": "kwhitebow", "name": "흰 리본", "slot": "head", "tier": 0, "cost": 12, "file": "assets/items/kwhitebow.webp", "box": [335, 18, 95, 68.1]}, {"id": "kpolice", "name": "경찰복", "slot": "outfit", "tier": 1, "cost": 28, "file": "assets/items/kpolice.webp", "box": [160.0, 318, 280, 211.4]}, {"id": "kpolicehat", "name": "경찰모", "slot": "head", "tier": 1, "cost": 26, "file": "assets/items/kpolicehat.webp", "box": [240.0, 19.6, 160, 95.4]}, {"id": "hnapple", "name": "빨간 사과 베레모", "slot": "head", "tier": 1, "cost": 22, "file": "assets/items/hnapple.webp", "box": [195.0, 30, 250, 128.4]}, {"id": "hngreen", "name": "초록 리본 머리띠", "slot": "head", "tier": 1, "cost": 24, "file": "assets/items/hngreen.webp", "box": [195.0, 30, 250, 106.6]}, {"id": "hnhood", "name": "검정 레이스 후드", "slot": "head", "tier": 2, "cost": 0, "file": "assets/items/hnhood.webp", "box": [195.0, 30, 250, 131.9]}, {"id": "hnhanbok", "name": "하늘 꽃 리본", "slot": "head", "tier": 2, "cost": 0, "file": "assets/items/hnhanbok.webp", "box": [195.0, 30, 250, 132.7]}, {"id": "hnheart", "name": "분홍 하트 리본 띠", "slot": "head", "tier": 1, "cost": 24, "file": "assets/items/hnheart.webp", "box": [195.0, 30, 250, 116.9]}, {"id": "hnrose", "name": "파란 장미 꽃 머리띠", "slot": "head", "tier": 2, "cost": 0, "file": "assets/items/hnrose.webp", "box": [195.0, 30, 250, 110.5]}, {"id": "hnsky", "name": "하늘 큰 리본 핀", "slot": "head", "tier": 1, "cost": 22, "file": "assets/items/hnsky.webp", "box": [195.0, 30, 250, 121.8]}, {"id": "hnbear", "name": "곰돌이 갈색 머리띠", "slot": "head", "tier": 1, "cost": 24, "file": "assets/items/hnbear.webp", "box": [195.0, 30, 250, 121.4]}, {"id": "hnclown", "name": "별 광대 베레", "slot": "head", "tier": 1, "cost": 22, "file": "assets/items/hnclown.webp", "box": [195.0, 30, 250, 123.4]}, {"id": "hnnurse", "name": "간호사 모자", "slot": "head", "tier": 1, "cost": 24, "file": "assets/items/hnnurse.webp", "box": [195.0, 30, 250, 107.8]}, {"id": "qnapple", "name": "사과 멜빵 반바지", "slot": "outfit", "tier": 1, "cost": 26, "file": "assets/items/qnapple.webp", "box": [176.2, 318, 287.5, 230.0]}, {"id": "qngreen", "name": "초록 코르셋 원피스", "slot": "outfit", "tier": 1, "cost": 28, "file": "assets/items/qngreen.webp", "box": [173.3, 318, 293.3, 230.0]}, {"id": "qnhood", "name": "보라 하트 고딕 원피스", "slot": "outfit", "tier": 2, "cost": 0, "file": "assets/items/qnhood.webp", "box": [170.0, 318, 300, 222.8]}, {"id": "qnhanbok", "name": "하늘 한복", "slot": "outfit", "tier": 2, "cost": 0, "file": "assets/items/qnhanbok.webp", "box": [173.1, 318, 293.8, 230.0]}, {"id": "qnleather", "name": "검정 가죽 재킷", "slot": "outfit", "tier": 2, "cost": 0, "file": "assets/items/qnleather.webp", "box": [181.6, 318, 276.9, 230.0]}, {"id": "qnpurple", "name": "검정 보라 하트 원피스", "slot": "outfit", "tier": 1, "cost": 28, "file": "assets/items/qnpurple.webp", "box": [171.6, 318, 296.8, 230.0]}, {"id": "qnplaid", "name": "체크 곰돌이 원피스", "slot": "outfit", "tier": 1, "cost": 26, "file": "assets/items/qnplaid.webp", "box": [174.1, 318, 291.9, 230.0]}, {"id": "qnheart", "name": "분홍 하트 원피스", "slot": "outfit", "tier": 1, "cost": 28, "file": "assets/items/qnheart.webp", "box": [170.0, 318, 300, 203.0]}, {"id": "qnrose", "name": "파란 장미 레이스 원피스", "slot": "outfit", "tier": 2, "cost": 0, "file": "assets/items/qnrose.webp", "box": [170.0, 318, 300, 214.6]}, {"id": "qnbear", "name": "곰돌이 크림 메이드", "slot": "outfit", "tier": 1, "cost": 26, "file": "assets/items/qnbear.webp", "box": [176.9, 318, 286.1, 230.0]}, {"id": "qnclown", "name": "빨강 파랑 광대 멜빵", "slot": "outfit", "tier": 1, "cost": 26, "file": "assets/items/qnclown.webp", "box": [184.6, 318, 270.8, 230.0]}, {"id": "qnnurse", "name": "간호사 원피스", "slot": "outfit", "tier": 1, "cost": 28, "file": "assets/items/qnnurse.webp", "box": [170.0, 318, 300, 221.4]}];
 var ROOM_ITEMS = [{"id": "wall1", "name": "분홍 줄무늬 벽지", "kind": "wallpaper", "tier": 0, "file": "assets/room/wall1.webp", "w": 114, "h": 88}, {"id": "wall2", "name": "하늘 구름 벽지", "kind": "wallpaper", "tier": 0, "file": "assets/room/wall2.webp", "w": 116, "h": 88}, {"id": "wall3", "name": "노랑 별 벽지", "kind": "wallpaper", "tier": 1, "file": "assets/room/wall3.webp", "w": 116, "h": 88}, {"id": "wall4", "name": "보라 달 벽지", "kind": "wallpaper", "tier": 1, "file": "assets/room/wall4.webp", "w": 116, "h": 88}, {"id": "floor1", "name": "분홍 체크 바닥", "kind": "floor", "tier": 0, "file": "assets/room/floor1.webp", "w": 110, "h": 51}, {"id": "floor2", "name": "나무 바닥", "kind": "floor", "tier": 0, "file": "assets/room/floor2.webp", "w": 132, "h": 99}, {"id": "floor3", "name": "하얀 대리석 바닥", "kind": "floor", "tier": 1, "file": "assets/room/floor3.webp", "w": 70, "h": 59}, {"id": "floor4", "name": "초록 다다미 바닥", "kind": "floor", "tier": 1, "file": "assets/room/floor4.webp", "w": 117, "h": 55}, {"id": "bed", "name": "하트 침대", "kind": "furn", "tier": 2, "file": "assets/room/bed.webp", "w": 156, "h": 151}, {"id": "sofa", "name": "구름 소파", "kind": "furn", "tier": 2, "file": "assets/room/sofa.webp", "w": 152, "h": 121}, {"id": "bookshelf", "name": "코끼리 책장", "kind": "furn", "tier": 2, "file": "assets/room/bookshelf.webp", "w": 117, "h": 168}, {"id": "desk", "name": "공부 책상", "kind": "furn", "tier": 2, "file": "assets/room/desk.webp", "w": 182, "h": 146}, {"id": "dresser", "name": "거울 서랍장", "kind": "furn", "tier": 2, "file": "assets/room/dresser.webp", "w": 113, "h": 151}, {"id": "armchair", "name": "하트 안락의자", "kind": "furn", "tier": 1, "file": "assets/room/armchair.webp", "w": 126, "h": 127}, {"id": "curtains", "name": "분홍 커튼", "kind": "wall", "tier": 1, "file": "assets/room/curtains.webp", "w": 149, "h": 115}, {"id": "window1", "name": "둥근 창문", "kind": "wall", "tier": 1, "file": "assets/room/window1.webp", "w": 104, "h": 100}, {"id": "window2", "name": "숲 창문", "kind": "wall", "tier": 0, "file": "assets/room/window2.webp", "w": 77, "h": 83}, {"id": "chandelier", "name": "리본 샹들리에", "kind": "wall", "tier": 1, "file": "assets/room/chandelier.webp", "w": 93, "h": 94}, {"id": "moonlight", "name": "달 구름 조명", "kind": "wall", "tier": 1, "file": "assets/room/moonlight.webp", "w": 96, "h": 79}, {"id": "mobile", "name": "별 모빌", "kind": "wall", "tier": 1, "file": "assets/room/mobile.webp", "w": 78, "h": 87}, {"id": "tablelamp", "name": "분홍 스탠드", "kind": "prop", "tier": 0, "file": "assets/room/tablelamp.webp", "w": 62, "h": 83}, {"id": "floorlamp", "name": "리본 장스탠드", "kind": "prop", "tier": 1, "file": "assets/room/floorlamp.webp", "w": 59, "h": 154}, {"id": "heartdeco", "name": "하트 장식", "kind": "wall", "tier": 0, "file": "assets/room/heartdeco.webp", "w": 58, "h": 73}, {"id": "frame1", "name": "하트 액자", "kind": "wall", "tier": 0, "file": "assets/room/frame1.webp", "w": 61, "h": 73}, {"id": "frame2", "name": "코끼리 액자", "kind": "wall", "tier": 0, "file": "assets/room/frame2.webp", "w": 76, "h": 76}, {"id": "frame3", "name": "구름 액자", "kind": "wall", "tier": 0, "file": "assets/room/frame3.webp", "w": 44, "h": 54}, {"id": "calendar", "name": "달력", "kind": "wall", "tier": 0, "file": "assets/room/calendar.webp", "w": 61, "h": 96}, {"id": "clock", "name": "리본 시계", "kind": "wall", "tier": 0, "file": "assets/room/clock.webp", "w": 62, "h": 80}, {"id": "wallshelf", "name": "코끼리 선반", "kind": "wall", "tier": 1, "file": "assets/room/wallshelf.webp", "w": 157, "h": 82}, {"id": "hangplant", "name": "걸이 화분", "kind": "wall", "tier": 0, "file": "assets/room/hangplant.webp", "w": 51, "h": 98}, {"id": "plantpot", "name": "리본 화분", "kind": "prop", "tier": 0, "file": "assets/room/plantpot.webp", "w": 73, "h": 101}, {"id": "flowershelf", "name": "꽃 선반", "kind": "wall", "tier": 1, "file": "assets/room/flowershelf.webp", "w": 122, "h": 71}, {"id": "bluerug", "name": "파란 꽃 러그", "kind": "rug", "tier": 1, "file": "assets/room/bluerug.webp", "w": 172, "h": 81}, {"id": "tulip", "name": "튤립 화병", "kind": "prop", "tier": 0, "file": "assets/room/tulip.webp", "w": 61, "h": 115}, {"id": "bigplant", "name": "큰 화분", "kind": "prop", "tier": 1, "file": "assets/room/bigplant.webp", "w": 80, "h": 121}, {"id": "flowerstool", "name": "꽃 테이블", "kind": "furn", "tier": 1, "file": "assets/room/flowerstool.webp", "w": 98, "h": 70}, {"id": "pinkstool", "name": "분홍 의자", "kind": "furn", "tier": 0, "file": "assets/room/pinkstool.webp", "w": 62, "h": 68}, {"id": "pinkbox", "name": "하트 상자", "kind": "prop", "tier": 0, "file": "assets/room/pinkbox.webp", "w": 67, "h": 57}, {"id": "teddy", "name": "곰돌이 인형", "kind": "prop", "tier": 0, "file": "assets/room/teddy.webp", "w": 65, "h": 74}, {"id": "cloudrug", "name": "구름 러그", "kind": "rug", "tier": 0, "file": "assets/room/cloudrug.webp", "w": 77, "h": 48}, {"id": "quilt", "name": "누빔 하트 러그", "kind": "rug", "tier": 0, "file": "assets/room/quilt.webp", "w": 64, "h": 53}, {"id": "sidetable", "name": "하트 협탁", "kind": "furn", "tier": 0, "file": "assets/room/sidetable.webp", "w": 52, "h": 57}, {"id": "ottoman", "name": "분홍 오토만", "kind": "furn", "tier": 0, "file": "assets/room/ottoman.webp", "w": 56, "h": 53}, {"id": "globe", "name": "지구본", "kind": "prop", "tier": 0, "file": "assets/room/globe.webp", "w": 48, "h": 61}, {"id": "mirror", "name": "스탠드 거울", "kind": "prop", "tier": 0, "file": "assets/room/mirror.webp", "w": 52, "h": 58}, {"id": "books", "name": "책 더미", "kind": "prop", "tier": 0, "file": "assets/room/books.webp", "w": 52, "h": 46}, {"id": "boxes", "name": "선물 상자", "kind": "prop", "tier": 0, "file": "assets/room/boxes.webp", "w": 53, "h": 61}, {"id": "lantern", "name": "작은 랜턴", "kind": "prop", "tier": 0, "file": "assets/room/lantern.webp", "w": 34, "h": 37}];
 var TIERS = [
   {name:'보통',     w:60, dup:4,  buy:true},
@@ -1525,9 +1525,9 @@ setTimeout(wxAuto,1500); setInterval(wxAuto,10*60000);
 })();
 
 /* 업데이트 공지: 항상 최신 공지 하나만 보여요. 새 공지를 올릴 때는 NOTICE의 id를 바꾸면 다시 떠요 */
-var NOTICE={id:'2026-10-04l', date:'2026.10.04', title:'업데이트 안내', items:[
+var NOTICE={id:'2026-10-04m', date:'2026.10.04', title:'업데이트 안내', items:[
   '꾸미기 버튼을 누르면 코끼리 아래에 입고 있는 것, 위치·크기 바꾸기 메뉴가 떠요',
-  '새 머리 장식 11종과 의상 14종이 추가됐어요! 뽑기와 옷장에서 만나요',
+  '새 머리 장식 10종과 의상 12종이 추가됐어요! 뽑기와 옷장에서 만나요',
   '요리창에 도감이 생겼어요! 아직 못 만든 요리는 ❓로 나와요',
   '마당에 🛒 슈퍼 버튼이 생겼어요! 재료를 사 와서 합쳐 요리해요 (밀가루, 치즈도 있어요)',
   '요리에서 재료 2개를 합쳐 새 메뉴를 만들 수 있어요 (재료 합치기)',

diff --git a/sw.js b/sw.js
@@ -1,5 +1,5 @@
 /* 코순이 키우기 서비스 워커 — VERSION은 빌드할 때 바뀝니다 */
-const VERSION='b2692e22e5';
+const VERSION='67f9e09ef7';
 const CACHE='kosuni-'+VERSION;
 const CORE=['./','index.html','manifest.webmanifest','pwa/icon-192.png','pwa/icon-512.png','pwa/apple-touch-icon.png',
   'assets/idle.webp','assets/sad.webp','assets/sleep.webp','assets/eat.webp','assets/angry.webp','assets/joy.webp','assets/surprise.webp'];
